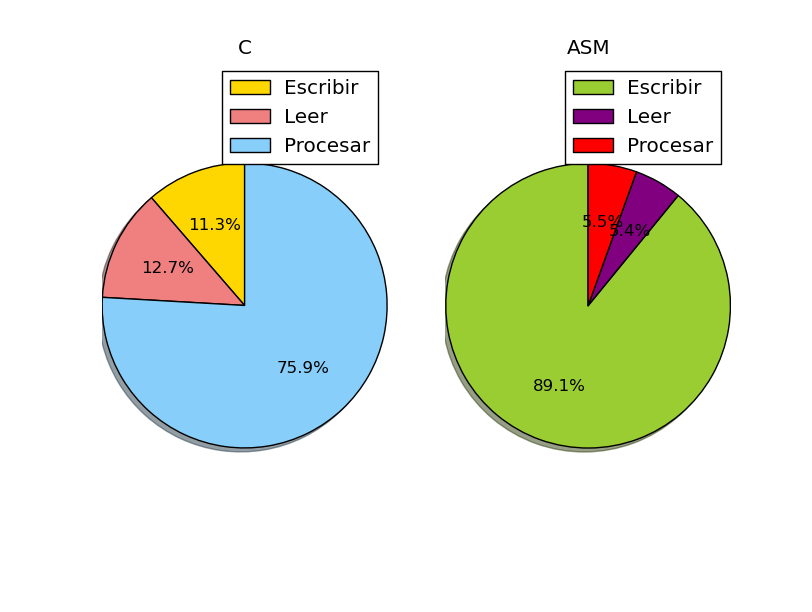
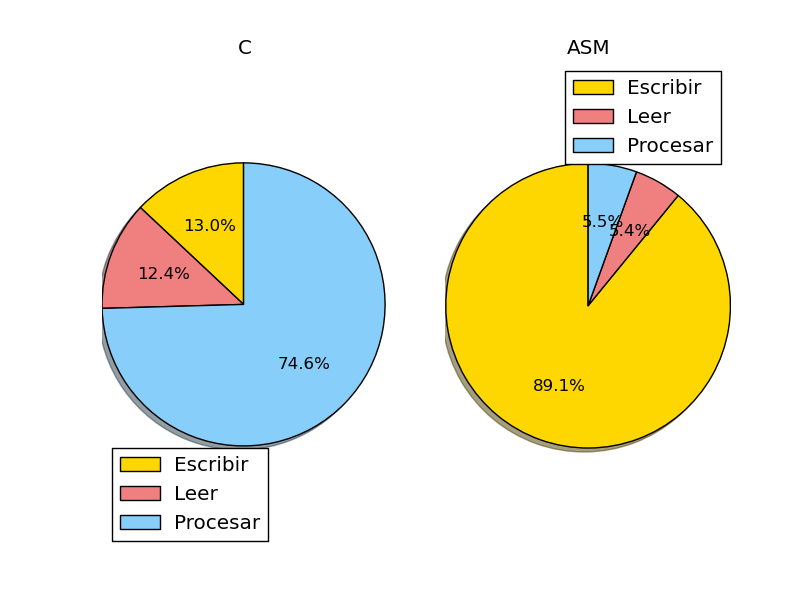
ssh

diff --git a/Experimentos/COMBINAR/Mem.py b/Experimentos/COMBINAR/Mem.py
@@ -131,7 +131,7 @@ colors = ['gold', 'lightcoral', 'lightskyblue']
 explode = (0.1, 0)  # explode 1st slice
 
 sizes1 = [leerC,  procesarC, escribirC]
-colors1 = ['yellowgreen','purple','red']
+colors1 = ['gold', 'lightcoral', 'lightskyblue']
  
 # Plot
 
